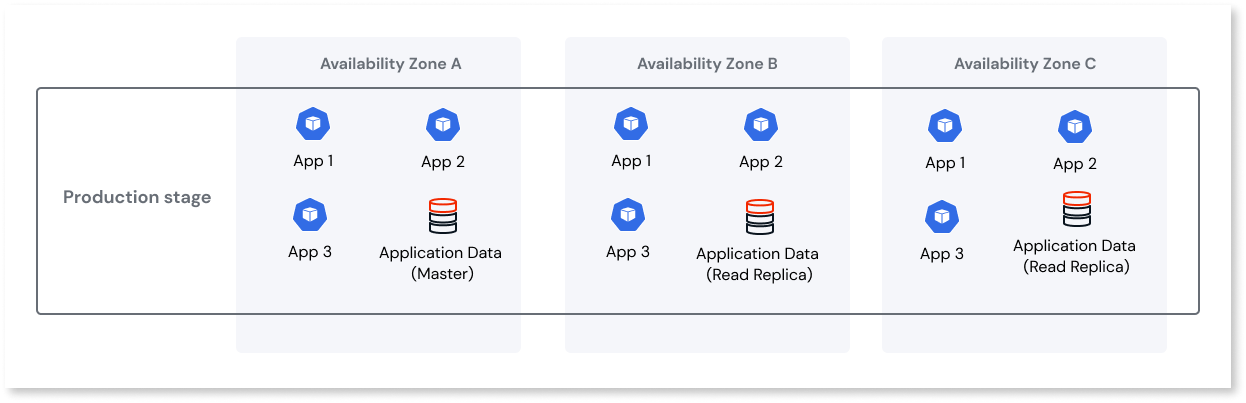
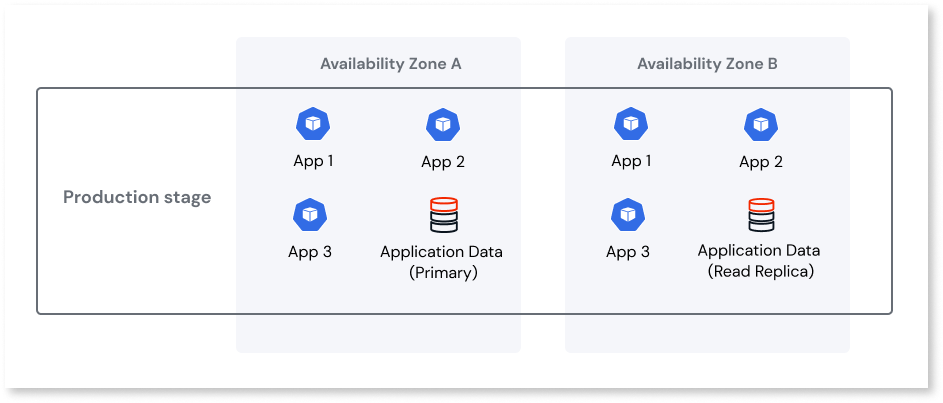
Update architecture-runtime-data-diag.png

diff --git a/src/eap/architecture/intro.md b/src/eap/architecture/intro.md
@@ -123,7 +123,7 @@ Each Runtime stage has an isolated Amazon Aurora Serverless database. The follow
 
 ![Runtime Production stage database](images/architecture-runtime-data-diag.png "Runtime Production stage database") 
 
-Data is automatically written to three availability zones simultaneously.
+Data is automatically written to two availability zones simultaneously.
 
 The Amazon Aurora database architecture model decouples compute and storage. Storage volume automatically scales as the amount of data stored increases.
 
